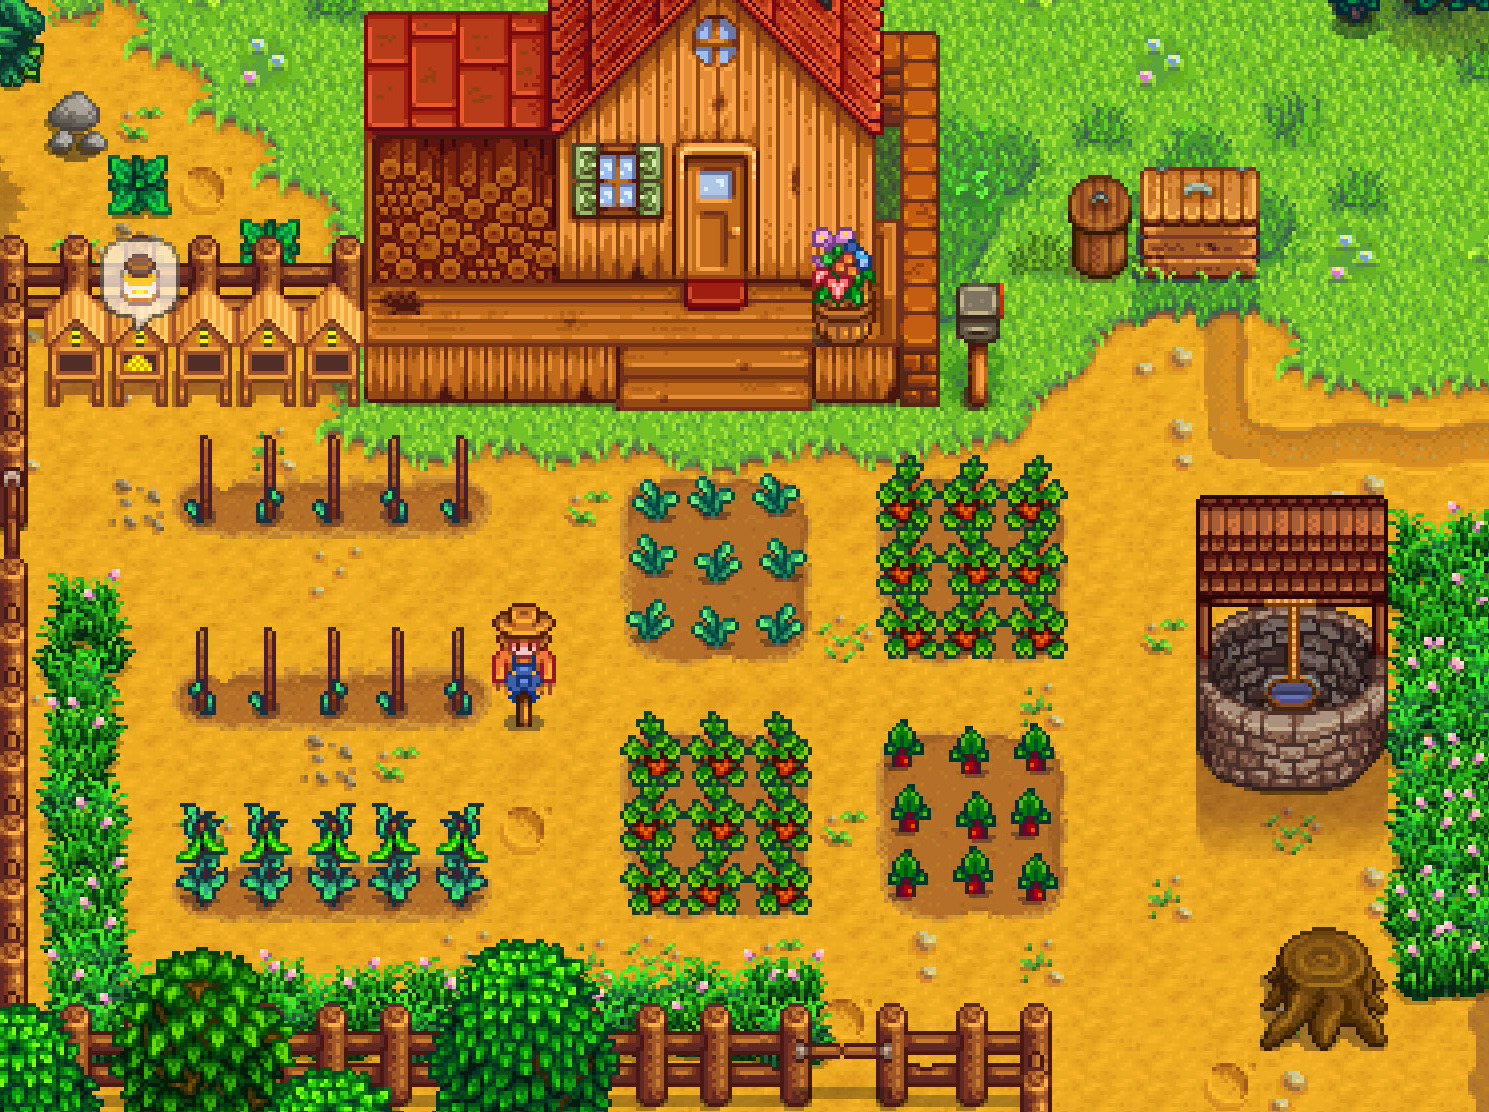
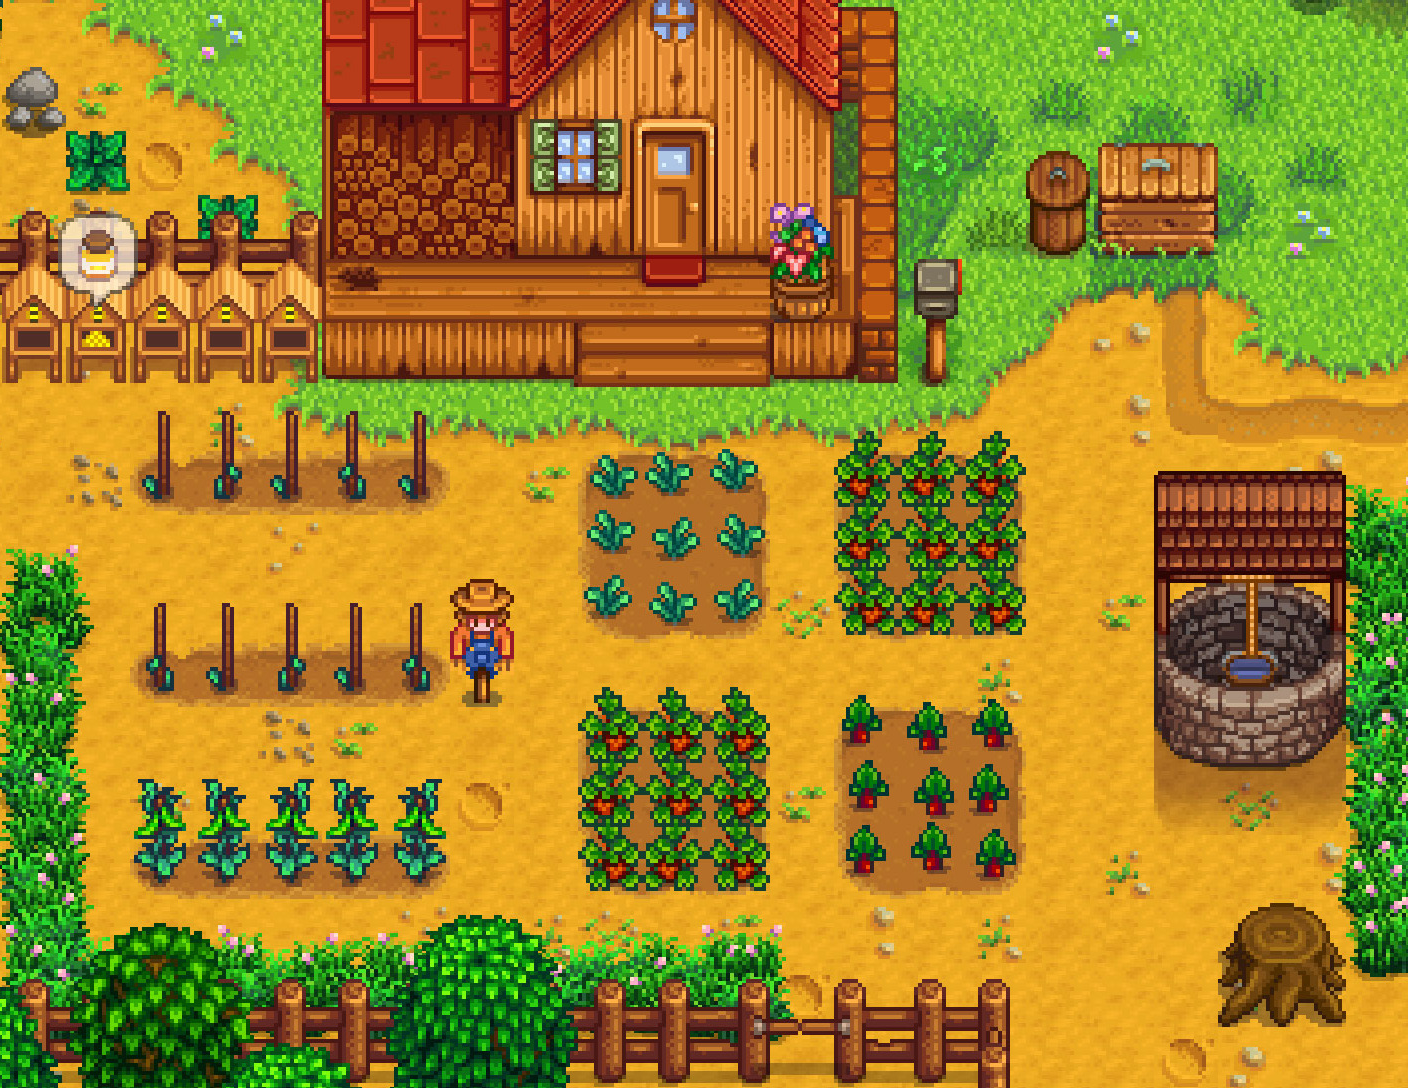
Building Map

diff --git a/RunehackValley/RunehackValley/Specifics/Map.cs b/RunehackValley/RunehackValley/Specifics/Map.cs
@@ -1,0 +1,42 @@
+using System;
+using Microsoft.Xna.Framework;
+
+namespace RunehackValley.Specifics
+{
+    public class Map
+    {
+        private readonly byte[,] openSpaces = new byte[,]
+        {
+            { 1,  1, 1, 1, 1, 1, 1, 1, 1, 1, 1, 1, 1, 1, 1, 1, 1, 1, 1, 1, 1, 1, 1,  1 },
+
+            { 1,  0, 0, 0, 0, 0, 1, 1, 1, 1, 1, 1, 1, 1, 1, 0, 0, 0, 0, 0, 0, 0, 0,  1 },
+            { 1,  1, 0, 0, 0, 0, 1, 1, 1, 1, 1, 1, 1, 1, 1, 0, 0, 0, 0, 0, 0, 0, 0,  1 },
+            { 1,  0, 0, 0, 0, 0, 1, 1, 1, 1, 1, 1, 1, 1, 1, 0, 0, 0, 0, 0, 0, 0, 0,  1 },
+            { 1,  0, 0, 0, 0, 0, 1, 1, 1, 1, 1, 1, 1, 1, 1, 0, 0, 1, 1, 1, 0, 0, 0,  1 },
+            { 1,  1, 1, 1, 1, 1, 0, 0, 0, 0, 0, 0, 0, 1, 1, 0, 0, 0, 0, 0, 0, 0, 0,  1 },
+            { 1,  1, 1, 1, 1, 1, 1, 1, 1, 1, 0, 0, 0, 1, 1, 1, 0, 0, 0, 0, 0, 0, 0,  1 },
+            { 1,  0, 0, 0, 0, 0, 0, 0, 0, 0, 0, 0, 0, 0, 0, 0, 0, 0, 0, 0, 0, 0, 0,  1 },
+            { 1,  0, 0, 1, 1, 1, 1, 1, 0, 0, 0, 0, 0, 0, 0, 0, 0, 0, 0, 0, 0, 0, 0,  1 },
+            { 1,  0, 0, 0, 0, 0, 0, 0, 0, 0, 1, 1, 1, 0, 1, 1, 1, 0, 0, 0, 0, 0, 0,  1 },
+            { 1,  0, 0, 0, 0, 0, 0, 0, 0, 0, 1, 1, 1, 0, 1, 1, 1, 0, 0, 0, 0, 0, 0,  1 },
+            { 1,  0, 0, 1, 1, 1, 1, 1, 1, 0, 1, 1, 1, 0, 1, 1, 1, 0, 0, 1, 1, 1, 0,  1 },
+            { 1,  0, 0, 0, 0, 0, 0, 0, 0, 0, 0, 0, 0, 0, 0, 0, 0, 0, 0, 1, 1, 1, 0,  1 },
+            { 1,  0, 0, 0, 0, 0, 0, 0, 0, 0, 1, 1, 1, 0, 1, 1, 1, 0, 0, 1, 1, 1, 0,  1 },
+            { 1,  0, 0, 1, 1, 1, 1, 1, 0, 0, 1, 1, 1, 0, 1, 1, 1, 0, 0, 0, 0, 0, 0,  1 },
+            { 1,  0, 0, 0, 0, 0, 0, 0, 0, 0, 1, 1, 1, 0, 1, 1, 1, 0, 0, 0, 0, 0, 0,  1 },
+            { 1,  0, 0, 0, 0, 0, 0, 0, 0, 0, 0, 0, 0, 0, 0, 0, 0, 0, 0, 0, 1, 1, 0,  1 },
+            { 1,  0, 0, 0, 0, 0, 0, 0, 0, 0, 0, 0, 0, 0, 0, 0, 0, 0, 0, 0, 1, 1, 0,  1 },
+            { 1,  1, 1, 1, 1, 1, 1, 1, 1, 1, 1, 1, 1, 1, 1, 1, 1, 0, 0, 0, 0, 0, 0,  1 },
+
+            { 1,  1, 1, 1, 1, 1, 1, 1, 1, 1, 1, 1, 1, 1, 1, 1, 1, 1, 1, 1, 1, 1, 1,  1 },
+        };
+
+        private int characterX;
+        private int characterY;
+
+        //public Vector2 AttemptMove(Vector2 Location)
+        //{
+
+        //}
+    }
+}

diff --git a/RunehackValley/RunehackValley/Specifics/MailBox.cs b/RunehackValley/RunehackValley/Specifics/MailBox.cs
@@ -1,0 +1,31 @@
+using Microsoft.Xna.Framework;
+using Microsoft.Xna.Framework.Graphics;
+using RunehackValley.Engine;
+using RunehackValley.MonoGame;
+
+namespace RunehackValley.Specifics
+{
+    public class Mailbox : IGameObject
+    {
+        private Texture2D texture;
+
+        public void LoadContent()
+        {
+            texture = new LoadedTexture("Mailbox").Get();
+        }
+
+        public void UnloadContent()
+        {
+            texture.Dispose();
+        }
+
+        public void Update(GameTime deltaTime)
+        {
+        }
+
+        public void Draw(SpriteBatch sprites)
+        {
+            sprites.Draw(texture, new Vector2(14 * 64, 4 * 64), Color.White);
+        }
+    }
+}

diff --git a/RunehackValley/RunehackValley/Engine/MainGame.cs b/RunehackValley/RunehackValley/Engine/MainGame.cs
@@ -9,10 +9,13 @@ namespace RunehackValley.Engine
     {
         private SpriteBatch _sprites;
         private IGameView _currentView;
+        private GraphicsDeviceManager _graphicsManager;
 
         public MainGame()
         {
-            new GraphicsDeviceManager(this);
+            _graphicsManager = new GraphicsDeviceManager(this);
+            _graphicsManager.PreferredBackBufferWidth = 1408;
+            _graphicsManager.PreferredBackBufferHeight = 1088;
             Content.RootDirectory = "Content";
         }
 

diff --git a/RunehackValley/RunehackValley/Specifics/SmallPartOfTown.cs b/RunehackValley/RunehackValley/Specifics/SmallPartOfTown.cs
@@ -31,7 +31,7 @@ namespace RunehackValley.Specifics
 
         public void Draw(SpriteBatch sprites)
         {
-            sprites.Draw(mapTexture, new Rectangle(+6, +10, 23 * 16 + 12, 17 * 16 + 6), Color.White);
+            sprites.Draw(mapTexture, new Rectangle(0, 0, 1408, 1088), Color.White);
         }
     }
 }
